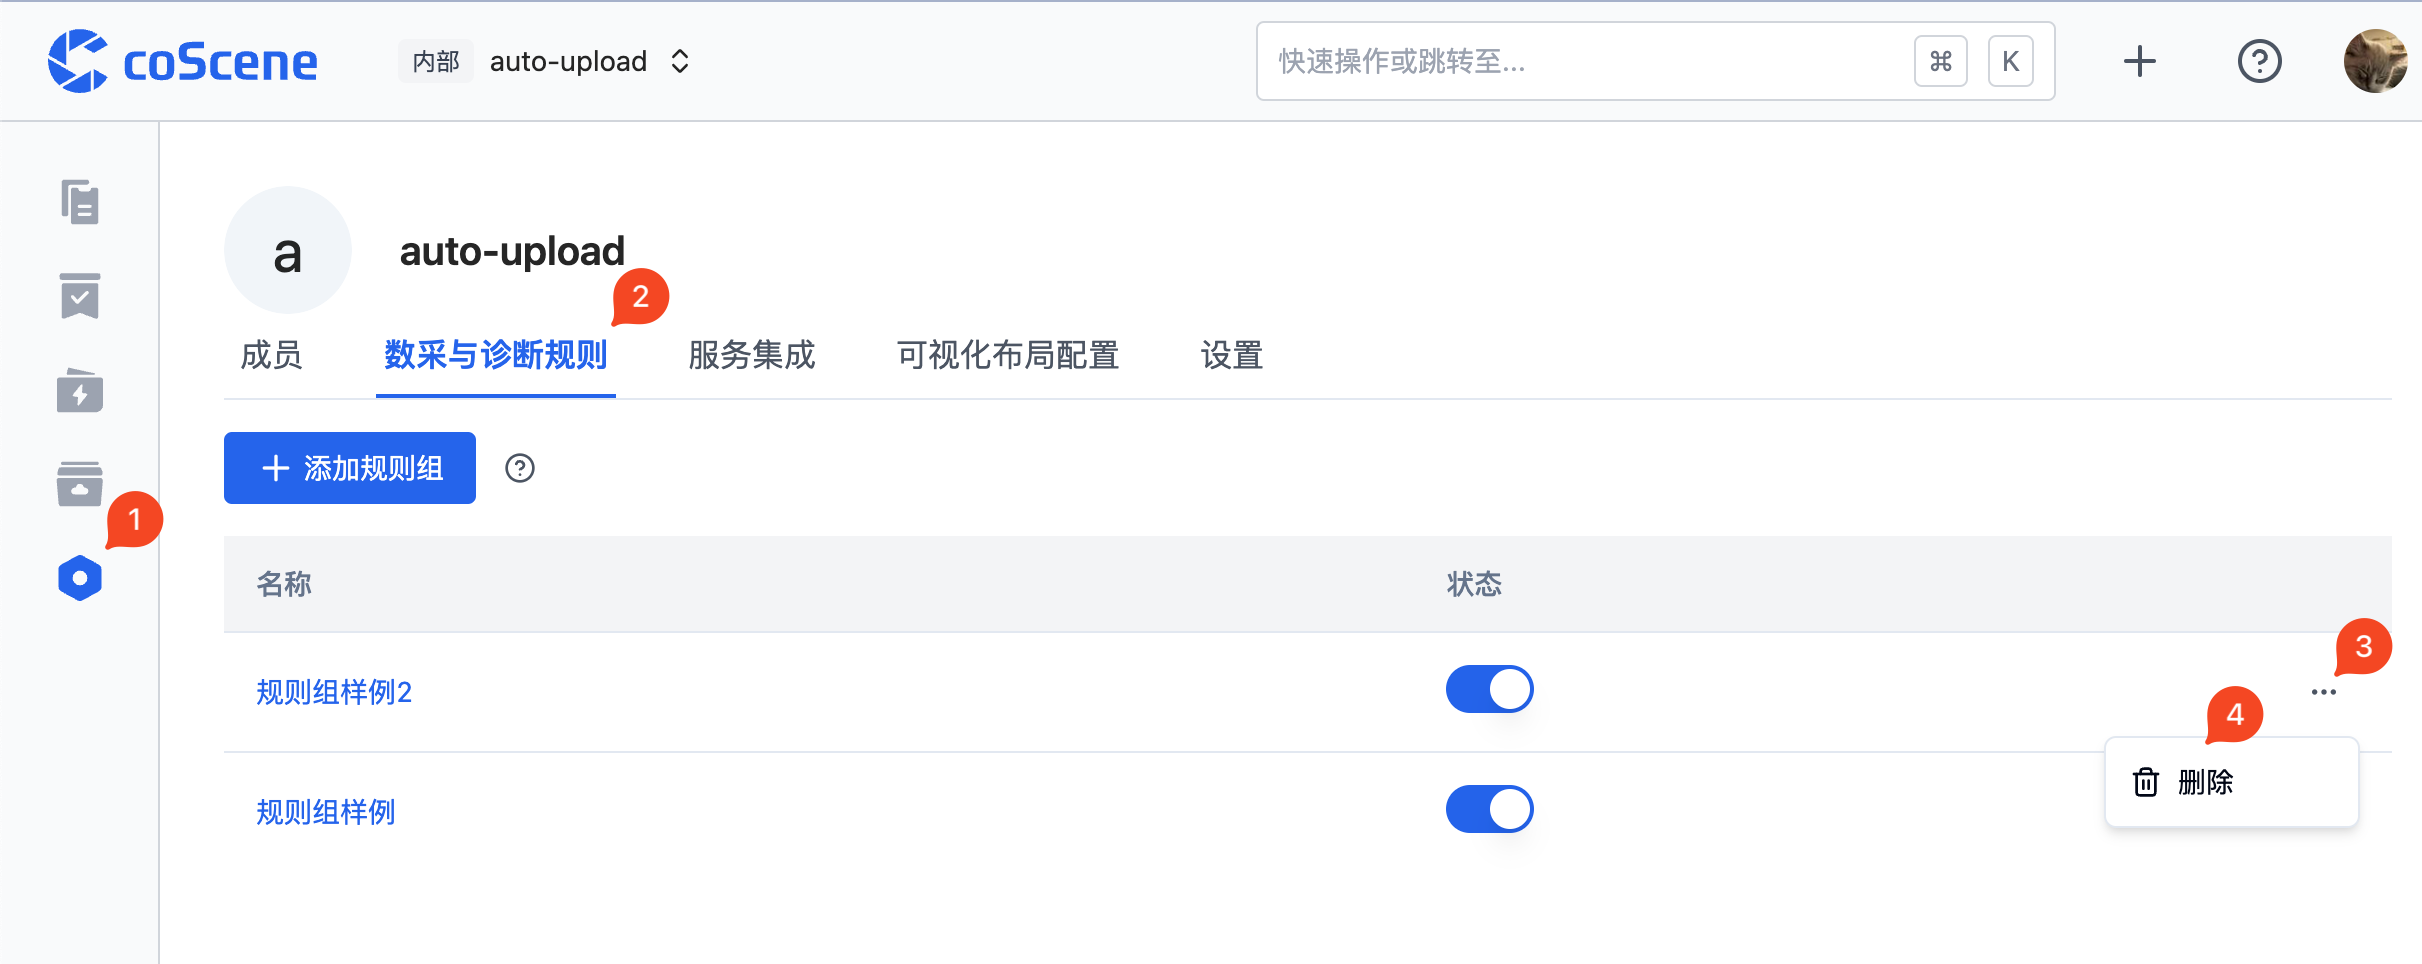
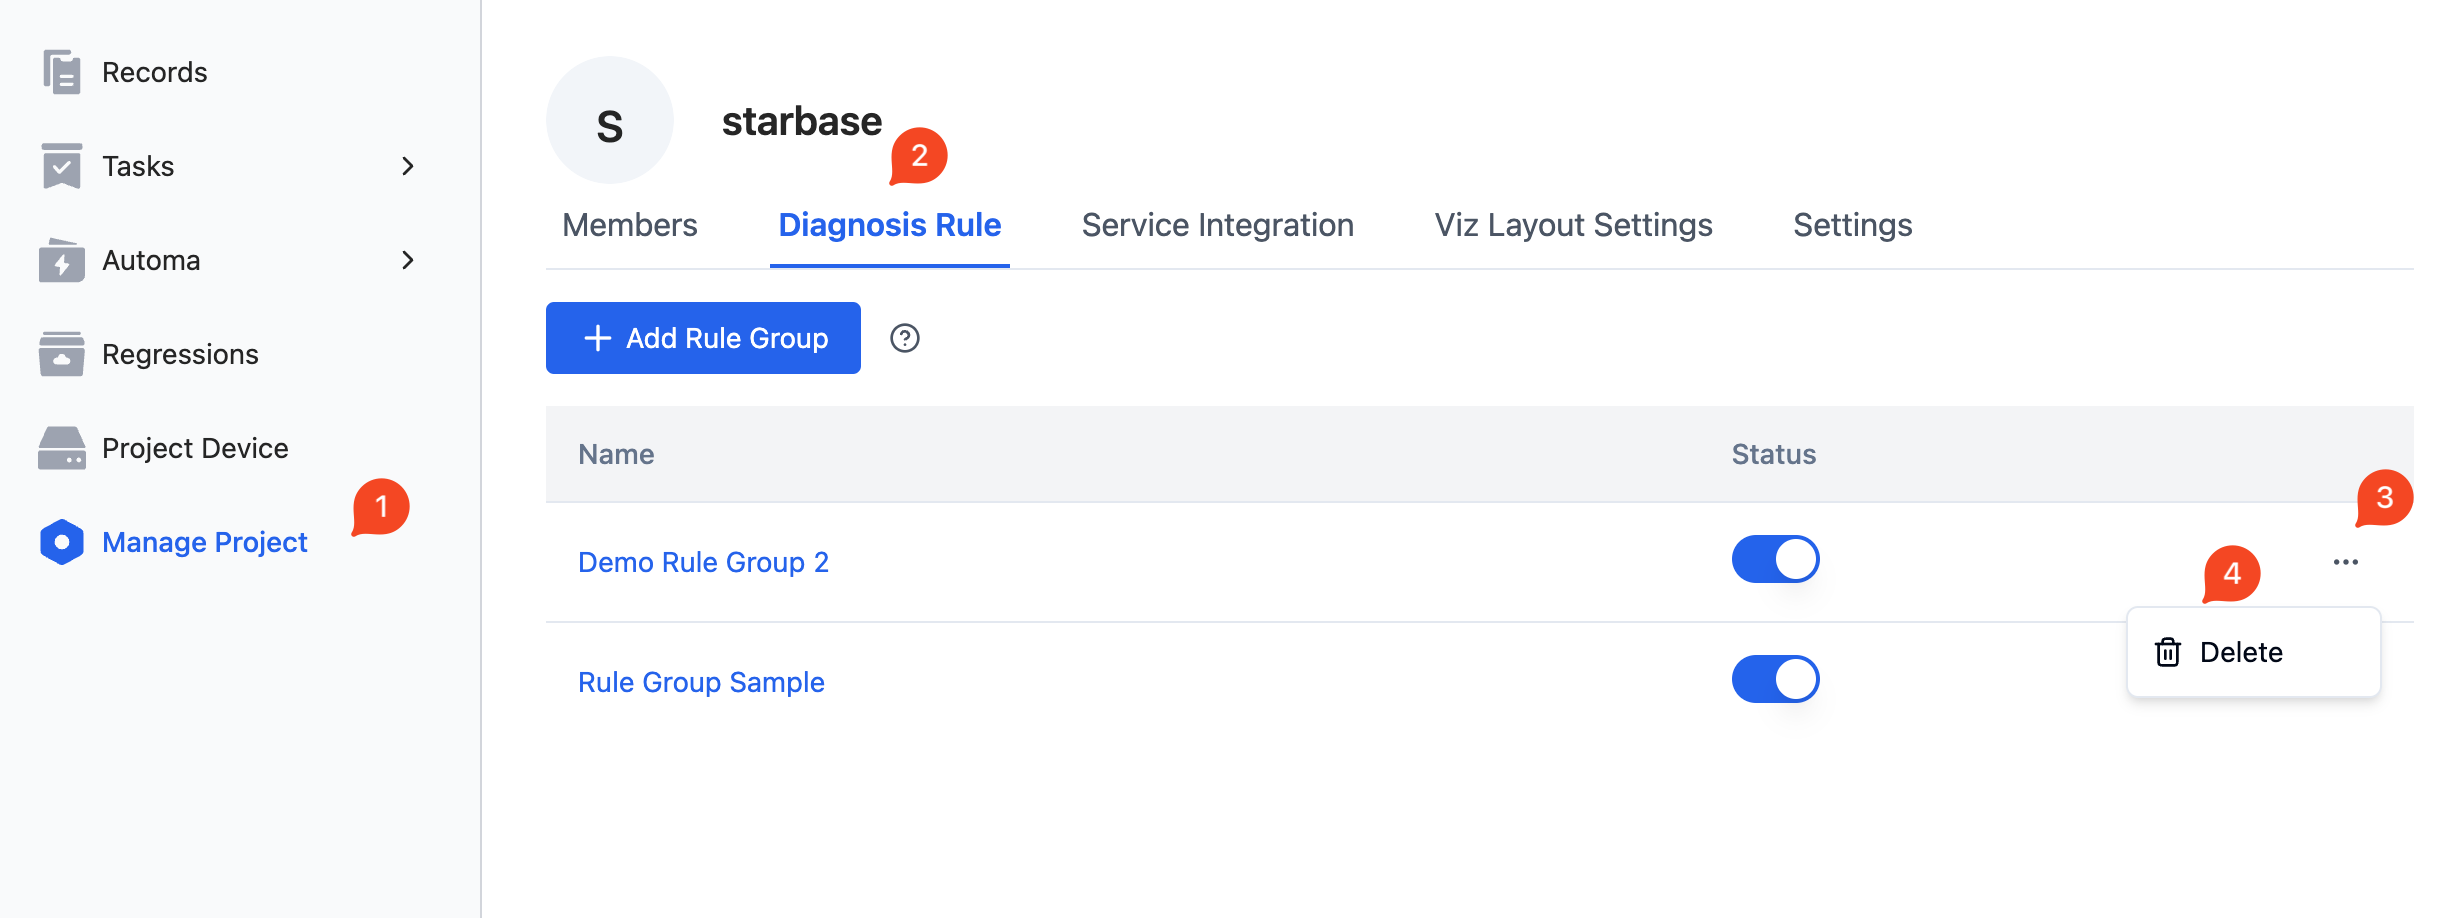
update rule group en section

diff --git a/i18n/en/docusaurus-plugin-content-docs/current/4-recipes/9-data-diagnosis/4-manage-rule-group.md b/i18n/en/docusaurus-plugin-content-docs/current/4-recipes/9-data-diagnosis/4-manage-rule-group.md
@@ -23,7 +23,7 @@ To enable/disable a rule group:
 
 The operations to enter the edit rule group page are shown below, for specific operations to edit the rules in the rule group, please refer to [Rules](./3-add-rule.md#rules).
 
-- Go to the "Manage Project - Data Collection and Diagnostic Rules" page, select the rule group to be edited, and click the name of the rule group (Example in image: `Rule Group Example 2`).
+- Go to the "Manage Project - Data Collection and Diagnostic Rules" page, select the rule group to be edited, and click the name of the rule group (Example in image: `Demo Rule Group 2`).
 
 ![pro-rule-manage-edit](../img/pro-rule-manage-edit.png)
 
